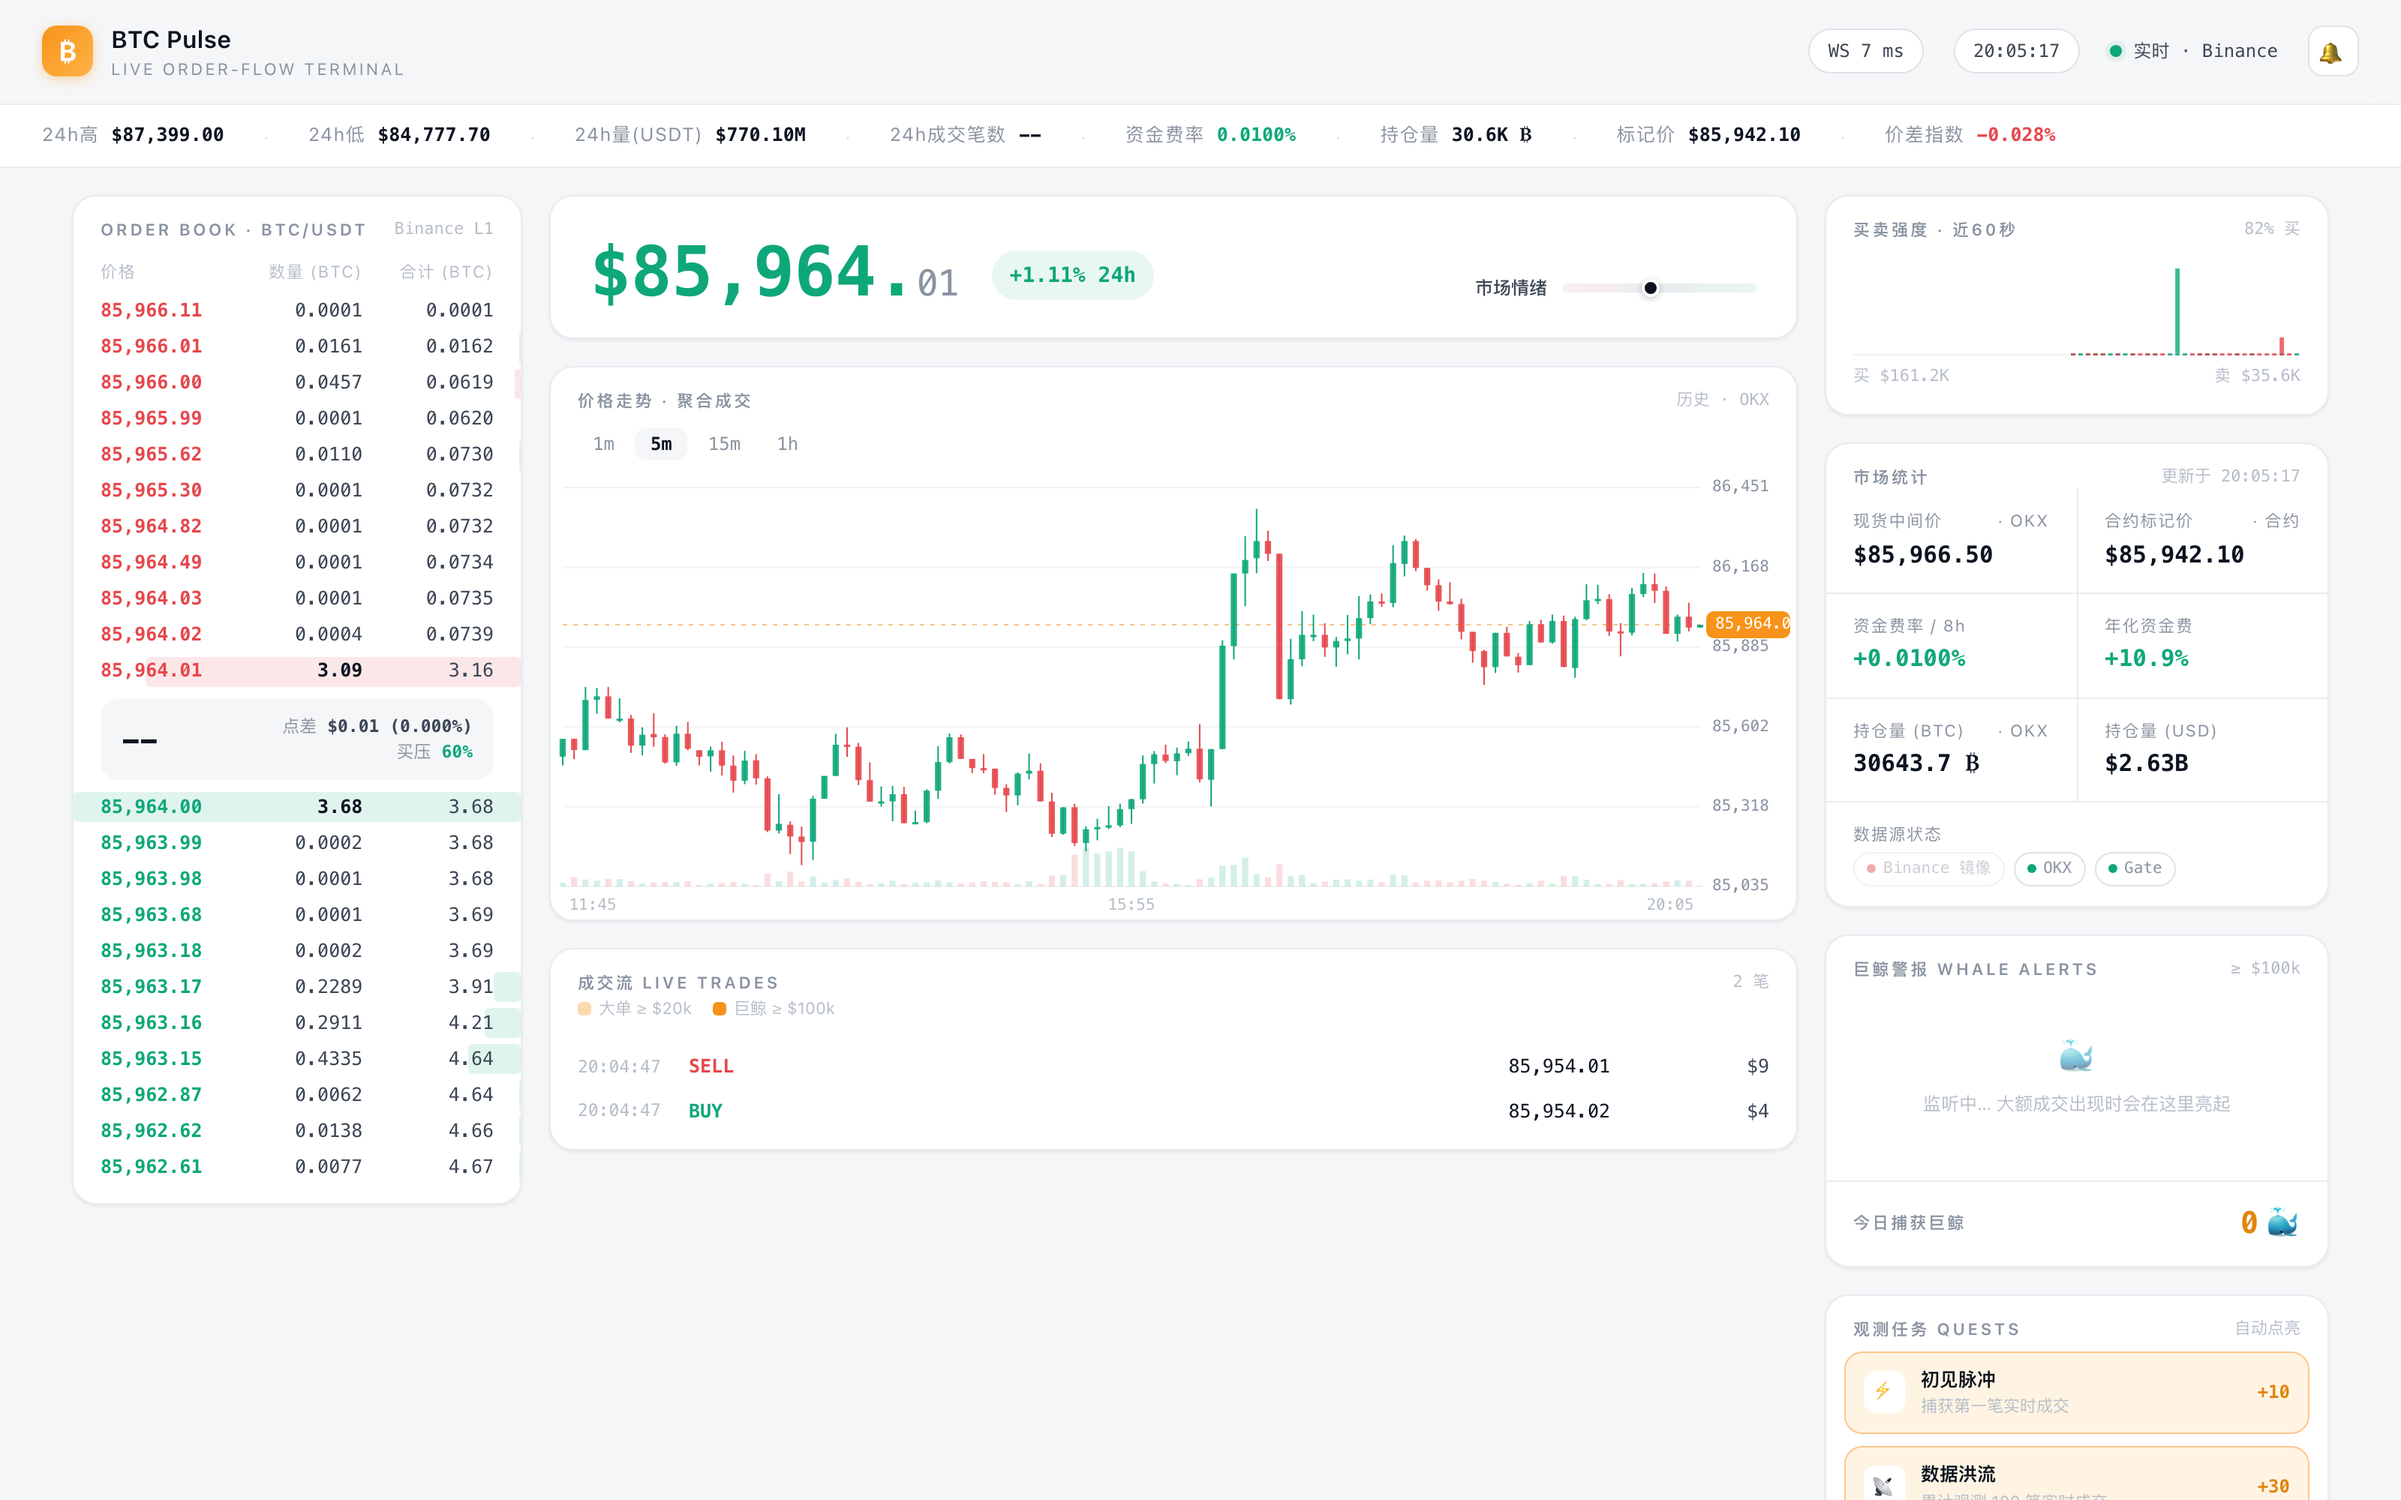
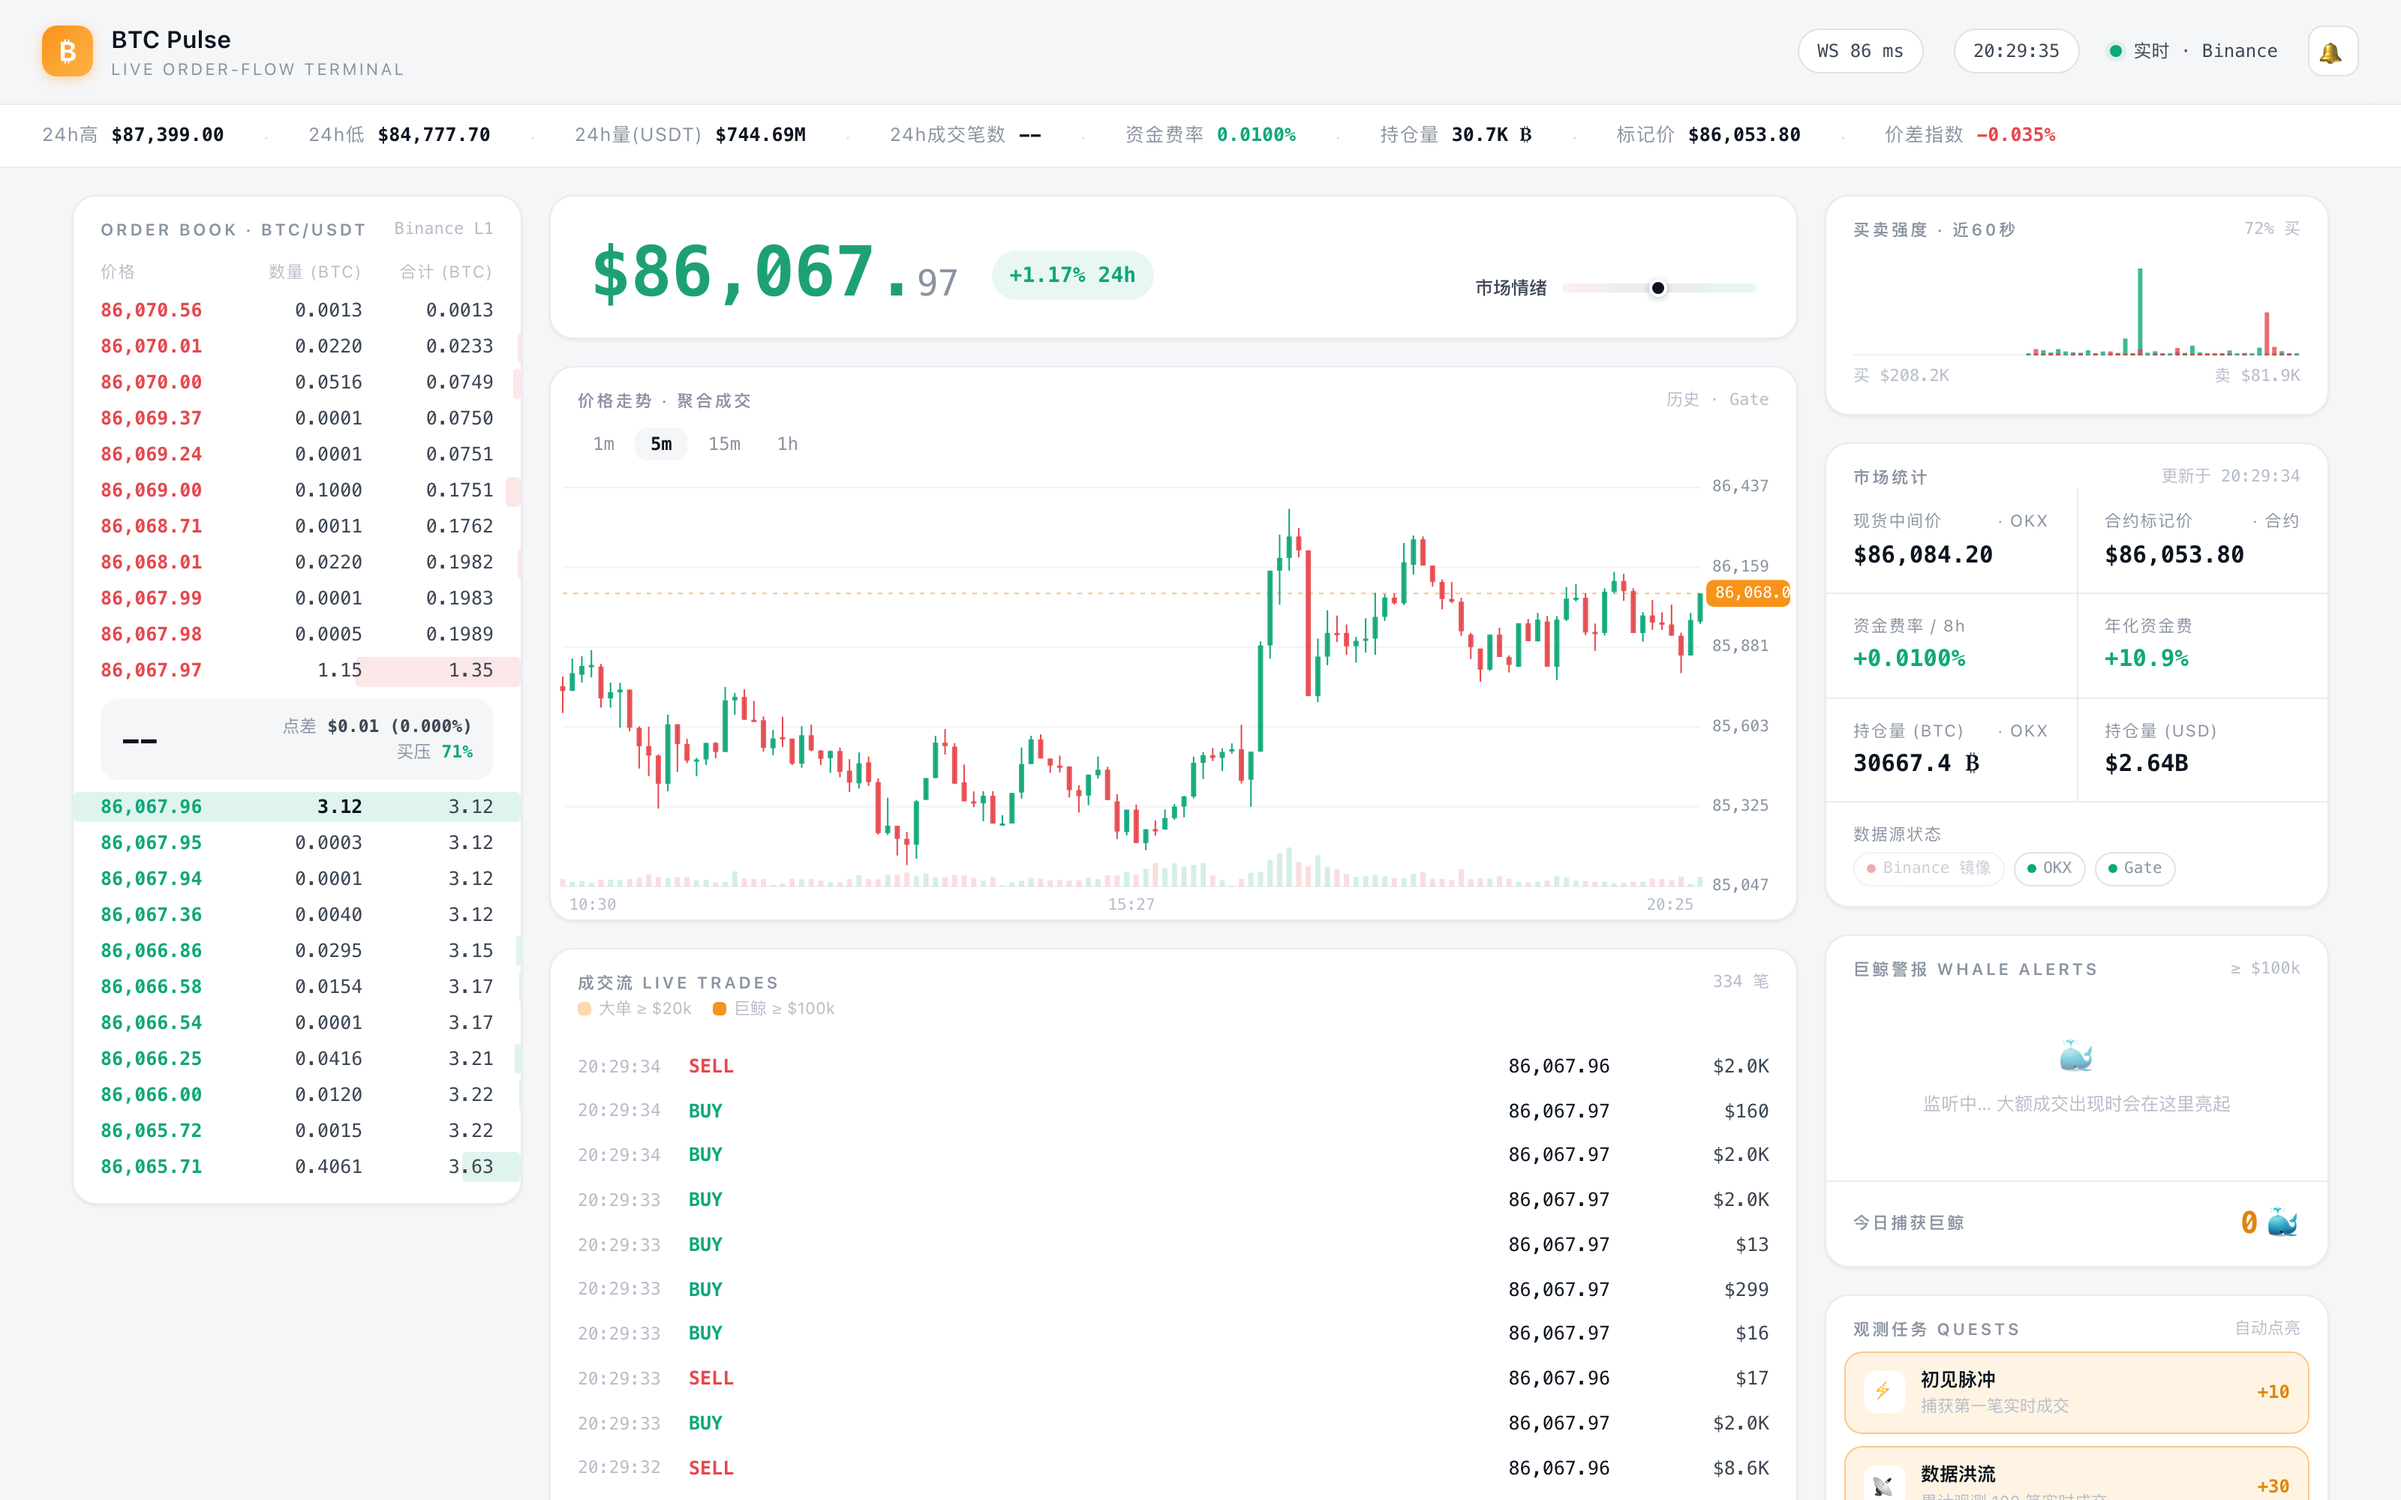
fix: orderbook mid-price update, mobile topbar overflow

diff --git a/public/app.js b/public/app.js
@@ -494,6 +494,11 @@ function renderOrderBook() {
   const ba = S.asks[0];
   if (bb && ba && S.mid) {
     const spread = ba.price - bb.price;
+    const midEl = $("ob-mid-price");
+    midEl.textContent = "$" + fmtUsd(S.mid);
+    if (S.prevPrice != null) {
+      midEl.className = "ob-mid-price " + (S.mid >= S.prevPrice ? "up" : "down");
+    }
     $("ob-spread").textContent = "$" + spread.toFixed(2) + " (" + ((spread / S.mid) * 100).toFixed(3) + "%)";
     const press = orderPressure();
     if (press != null) {

diff --git a/public/styles.css b/public/styles.css
@@ -573,7 +573,10 @@ body {
 @media (max-width: 860px) {
   .layout { grid-template-columns: 1fr; padding: 14px 14px 24px; gap: 14px; }
   .topbar { padding: 12px 14px; gap: 10px; }
-  .brand-sub { display: none; }
+  .brand-name { font-size: 14px; }
+  .brand-mark { width: 30px; height: 30px; font-size: 17px; }
+  .top-chip { display: none; }
+  .conn { margin-left: auto; }
   .ticker-strip { padding: 9px 14px; gap: 18px; }
   .col-right { grid-template-columns: 1fr; }
   .chart-wrap { height: 240px; }
